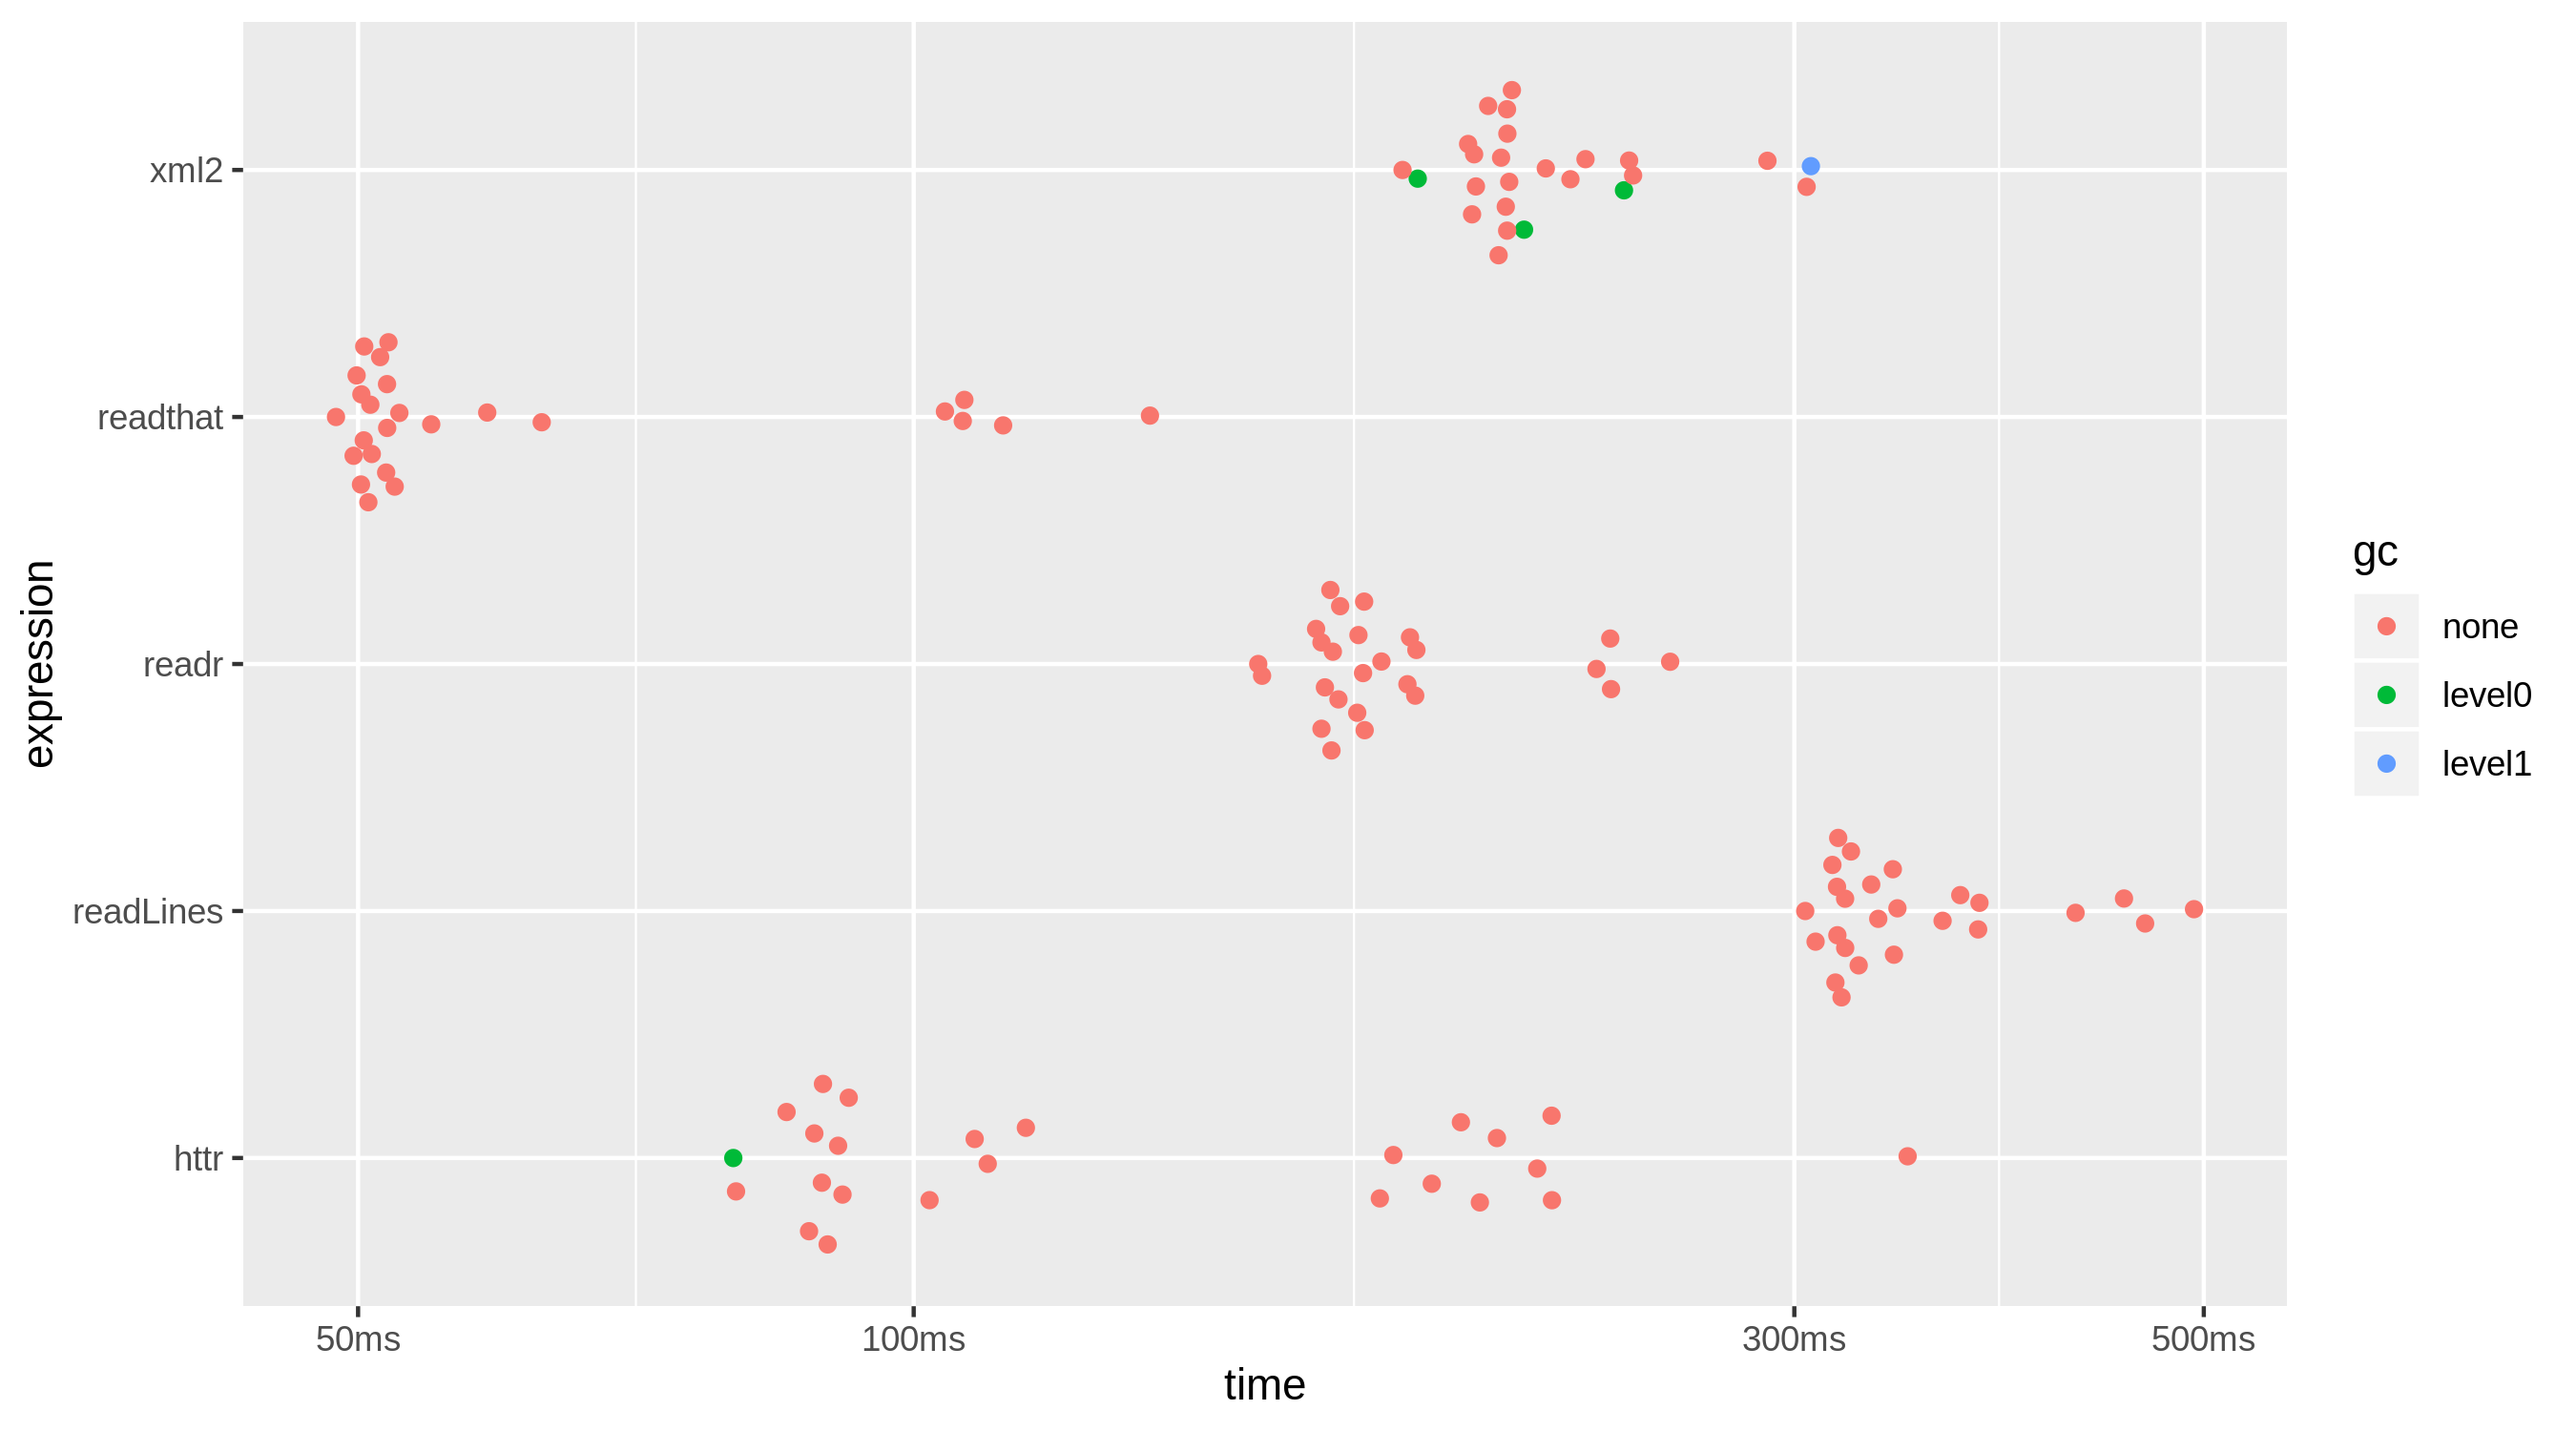
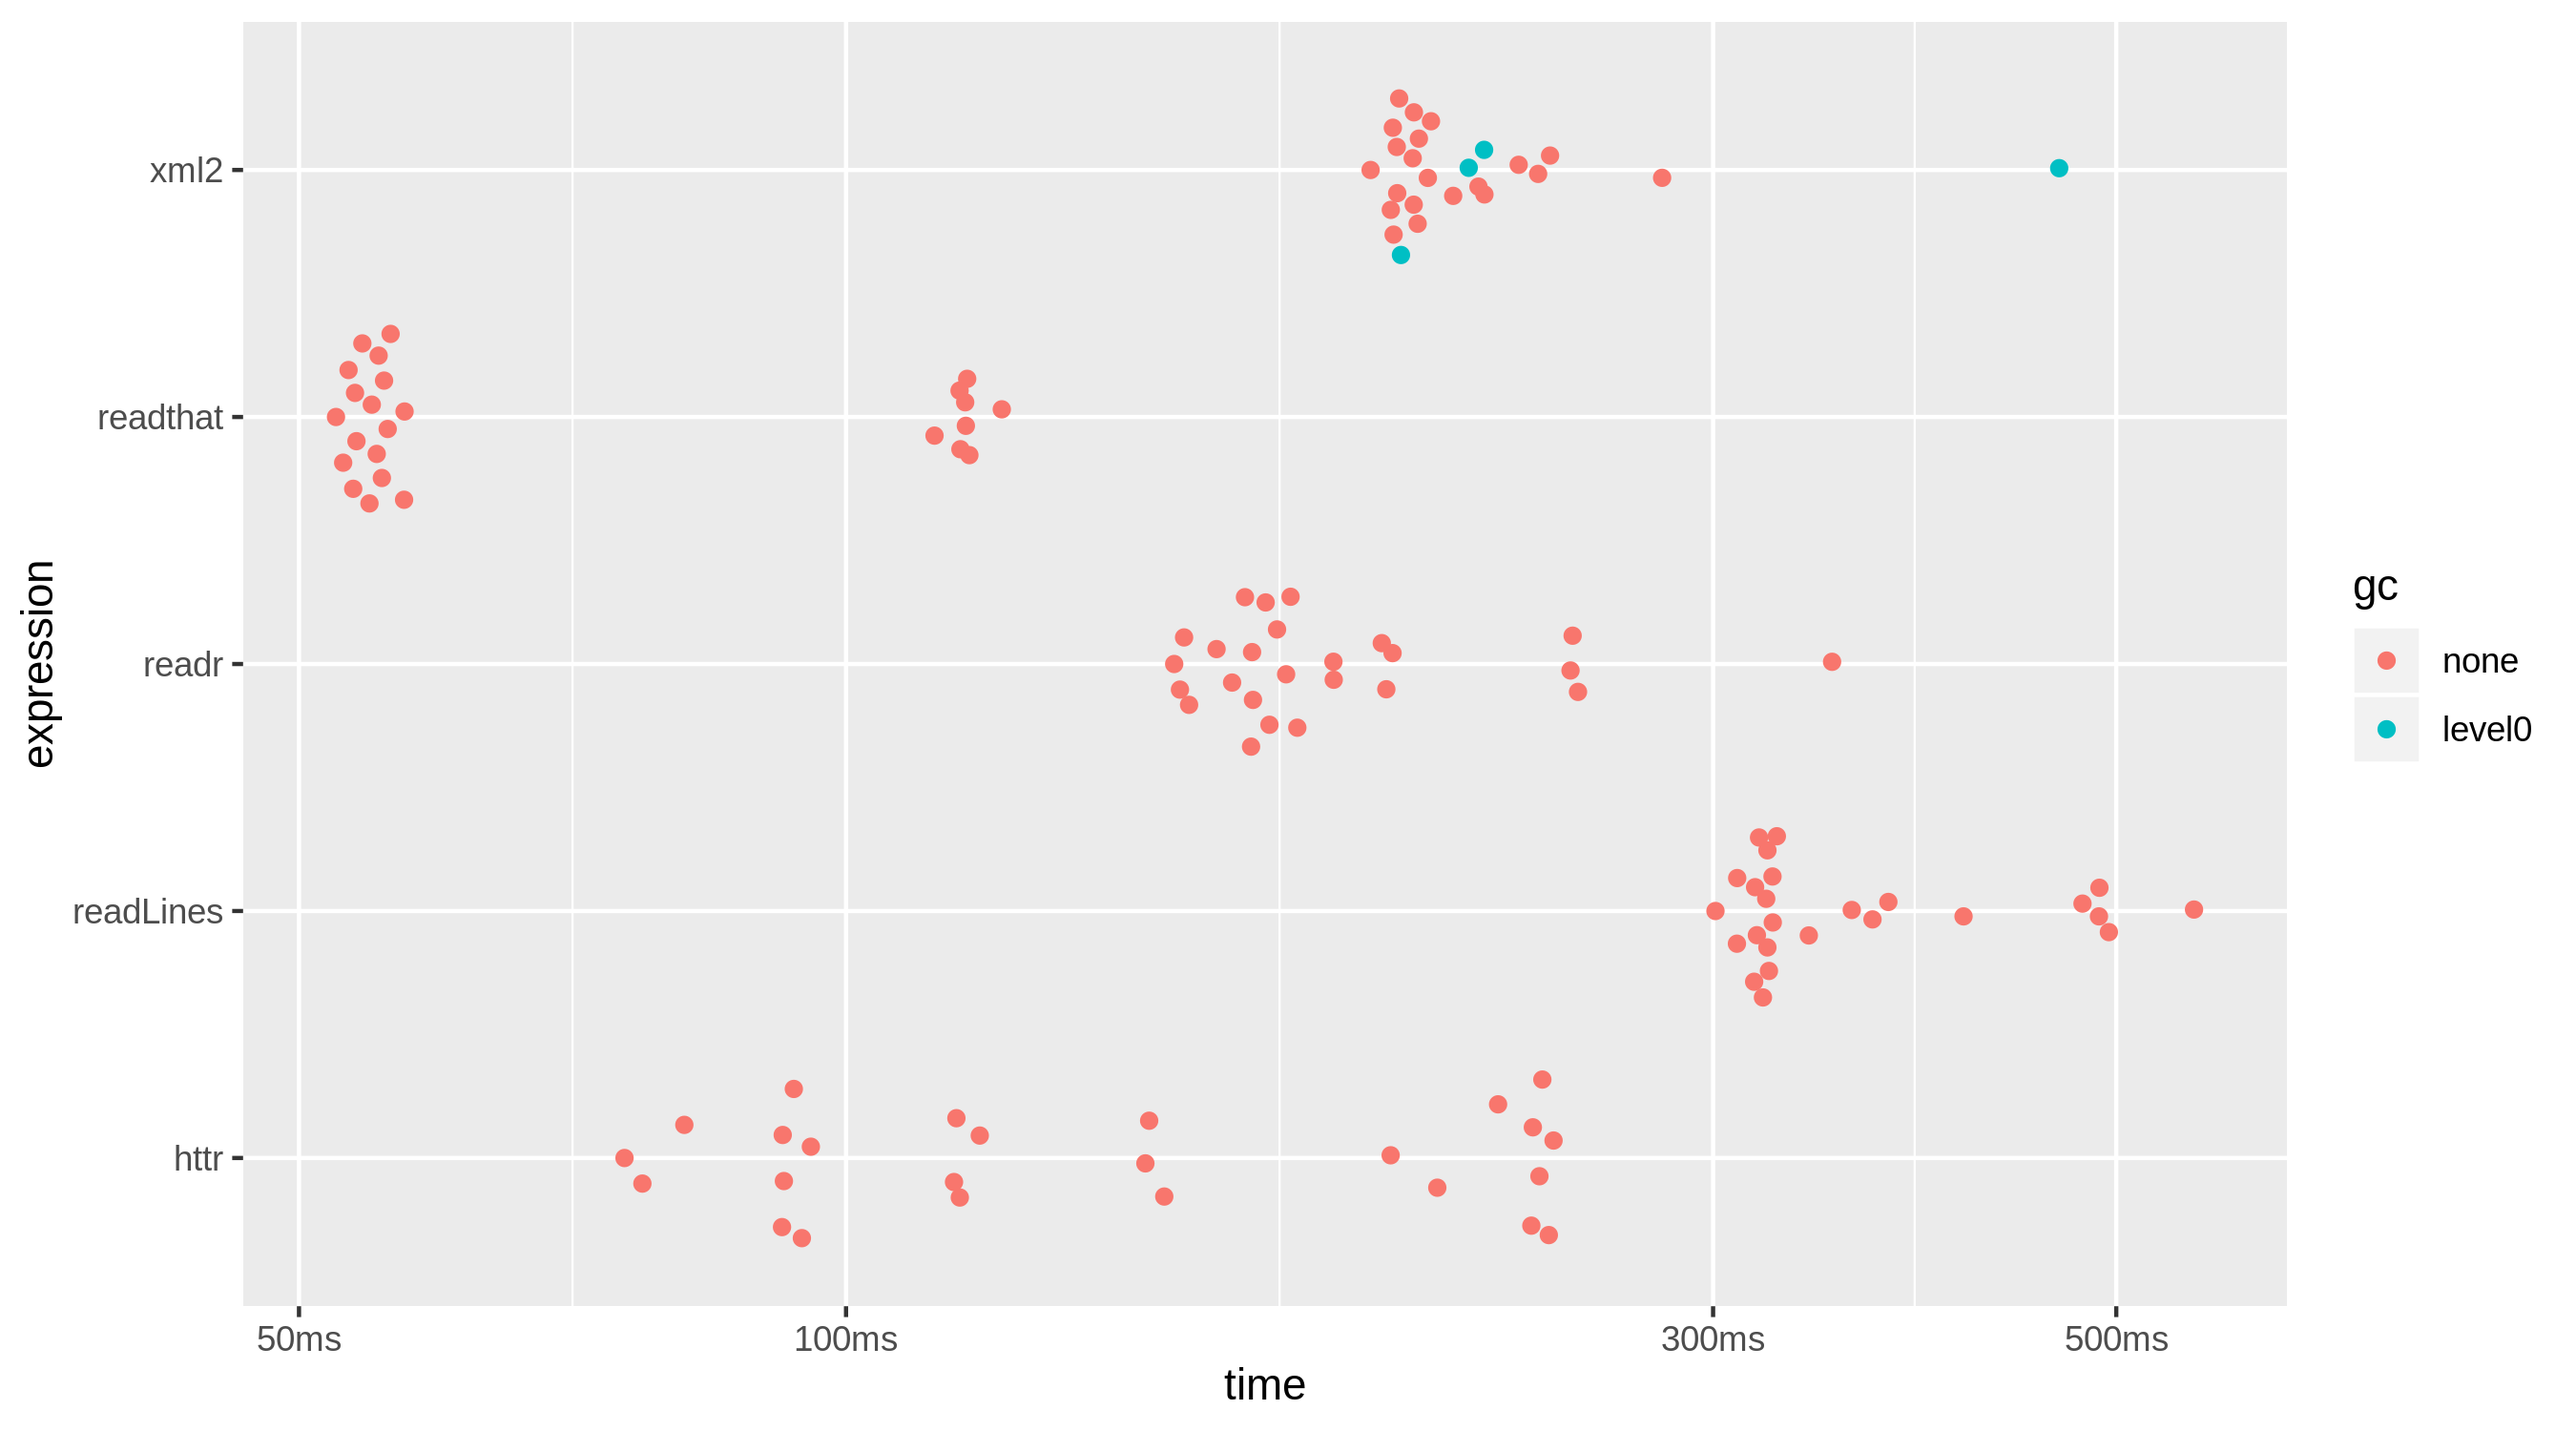
Rename to read

diff --git a/src/RcppExports.cpp b/src/RcppExports.cpp
@@ -5,20 +5,20 @@
 
 using namespace Rcpp;
 
-// readthatcpp
-std::string readthatcpp(std::string& path);
-RcppExport SEXP _readthat_readthatcpp(SEXP pathSEXP) {
+// readcpp
+std::string readcpp(std::string& path);
+RcppExport SEXP _readthat_readcpp(SEXP pathSEXP) {
 BEGIN_RCPP
     Rcpp::RObject rcpp_result_gen;
     Rcpp::RNGScope rcpp_rngScope_gen;
     Rcpp::traits::input_parameter< std::string& >::type path(pathSEXP);
-    rcpp_result_gen = Rcpp::wrap(readthatcpp(path));
+    rcpp_result_gen = Rcpp::wrap(readcpp(path));
     return rcpp_result_gen;
 END_RCPP
 }
 
 static const R_CallMethodDef CallEntries[] = {
-    {"_readthat_readthatcpp", (DL_FUNC) &_readthat_readthatcpp, 1},
+    {"_readthat_readcpp", (DL_FUNC) &_readthat_readcpp, 1},
     {NULL, NULL, 0}
 };
 

diff --git a/src/ifstream.cpp b/src/ifstream.cpp
@@ -15,7 +15,7 @@ std::string path_home() {
 
 
 // [[Rcpp::export]]
-std::string readthatcpp(std::string& path) {
+std::string readcpp(std::string& path) {
   std::regex pat(".*~.*");
   if (std::regex_match(path, pat)) {
     std::regex pat(".*~");

diff --git a/README.md b/README.md
@@ -39,18 +39,18 @@ urls <- c(
 )
 ```
 
-Use `readthat()` to read the text/source of a single file/URL
+Use `readthat::read()` to read the text/source of a single file/URL
 
 ``` r
 ## read single web/file (returns text vector)
-x <- readthat(urls[1])
+x <- read(urls[1])
 
 ## preview output
 substr(x, 1, 60)
 #> [1] "<!DOCTYPE html>\n<html lang=\"en\">\n<head>\n\n  <meta charset=\"ut"
 
 ## use apply functions to read multiple pages
-xx <- lapply(urls, readthat)
+xx <- lapply(urls, read)
 
 ## preview output
 lapply(xx, substr, 1, 60)
@@ -73,7 +73,7 @@ x <- "~/Dropbox/data.txt"
 bm_file <- bench::mark(
   readtext = readtext::readtext(x),
   readr = readr::read_lines(x),
-  readthat = readthat(x),
+  readthat = read(x),
   readLines = readLines(x),
   check = FALSE
 )
@@ -81,10 +81,10 @@ bm_file
 #> # A tibble: 4 x 6
 #>   expression      min   median `itr/sec` mem_alloc `gc/sec`
 #>   <bch:expr> <bch:tm> <bch:tm>     <dbl> <bch:byt>    <dbl>
-#> 1 readtext    753.8µs  780.6µs     1263.    4.88MB    12.5 
-#> 2 readr       158.3µs  163.9µs     5928.     2.7MB     8.30
-#> 3 readthat     32.6µs   33.5µs    29143.   21.69KB     2.91
-#> 4 readLines    89.4µs   92.6µs    10560.    8.79KB     4.06
+#> 1 readtext    747.7µs  774.6µs     1265.    4.88MB    12.5 
+#> 2 readr       157.1µs  163.2µs     5943.     2.7MB     8.29
+#> 3 readthat     40.1µs   41.7µs    23295.   23.94KB     6.99
+#> 4 readLines      89µs   94.6µs    10283.    8.79KB     2.02
 ```
 
 ![](man/figures/README-bm_file.png)
@@ -96,7 +96,7 @@ x <- "https://www.espn.com/nfl/scoreboard"
 bm_html <- bench::mark(
   httr = httr::content(httr::GET(x), as = "text", encoding = "UTF-8"),
   xml2 = xml2::read_html(x),
-  readthat = readthat(x),
+  readthat = read(x),
   readLines = readLines(x, warn = FALSE),
   readr = readr::read_lines(x),
   check = FALSE,
@@ -107,11 +107,11 @@ bm_html
 #> # A tibble: 5 x 6
 #>   expression      min   median `itr/sec` mem_alloc `gc/sec`
 #>   <bch:expr> <bch:tm> <bch:tm>     <dbl> <bch:byt>    <dbl>
-#> 1 httr         80.1ms  108.8ms      6.89    2.05MB    0.287
-#> 2 xml2          184ms  209.7ms      4.54    1.47MB    0.864
-#> 3 readthat     48.6ms   51.8ms     15.6    24.01KB    0    
-#> 4 readLines   304.1ms  330.2ms      2.84  446.09KB    0    
-#> 5 readr       153.7ms  174.2ms      5.45  617.49KB    0
+#> 1 httr         75.5ms  118.5ms      6.60    2.05MB    0    
+#> 2 xml2        194.4ms  206.3ms      4.66    1.47MB    0.887
+#> 3 readthat     52.4ms   55.7ms     13.4    24.01KB    0    
+#> 4 readLines   300.9ms  323.4ms      2.74  446.52KB    0    
+#> 5 readr       151.6ms  172.6ms      5.30  617.92KB    0
 ```
 
 ![](man/figures/README-bm_html.png)
